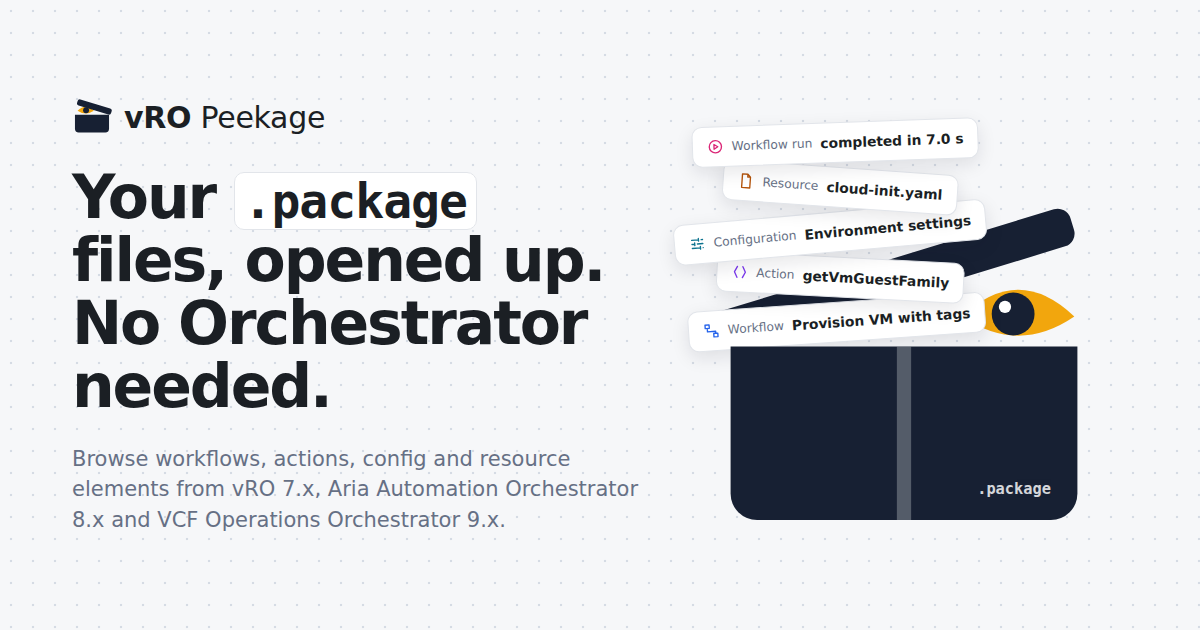
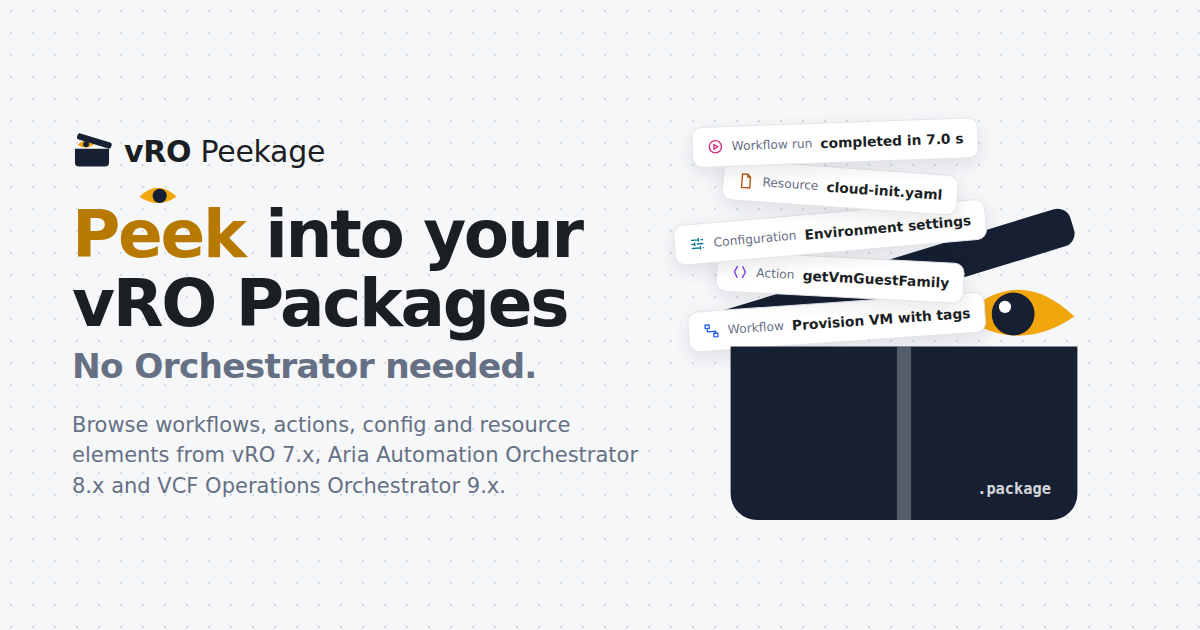
fixes

Changed region(s): [[0.0617, 0.1508, 0.5242, 0.8444]]

diff --git a/index.html b/index.html
@@ -3,9 +3,9 @@
   <head>
     <meta charset="UTF-8" />
     <meta name="viewport" content="width=device-width, initial-scale=1.0" />
-    <title>vRO Peekage — open vRO .package files without Orchestrator</title>
-    <meta name="description" content="Free vRO package viewer: browse workflows, actions, configuration and resource elements, scripts and workflow runs from vRealize Orchestrator 7.x, Aria Automation Orchestrator 8.x or VCF Operations Orchestrator 9.x .package files in your browser. Nothing is uploaded." />
-    <link rel="canonical" href="https://vro-peekage.vercel.app/" />
+    <title>vRO Peekage — Peek into your vRO packages, no Orchestrator needed</title>
+    <meta name="description" content="Peek into your vRO packages with this free vRO package viewer: browse workflows, actions, configuration and resource elements, scripts and workflow runs from vRealize Orchestrator 7.x, Aria Automation Orchestrator 8.x or VCF Operations Orchestrator 9.x .package files in your browser. Nothing is uploaded." />
+    <link rel="canonical" href="https://vro-package-viewer.vercel.app/" />
     <meta name="robots" content="index, follow" />
     <meta name="theme-color" content="#172033" media="(prefers-color-scheme: light)" />
     <meta name="theme-color" content="#0f1216" media="(prefers-color-scheme: dark)" />
@@ -16,19 +16,19 @@
 
     <meta property="og:type" content="website" />
     <meta property="og:site_name" content="vRO Peekage" />
-    <meta property="og:url" content="https://vro-peekage.vercel.app/" />
+    <meta property="og:url" content="https://vro-package-viewer.vercel.app/" />
     <meta property="og:title" content="vRO Peekage" />
-    <meta property="og:description" content="Your .package files, opened up. No Orchestrator needed. Browse vRO workflows, actions, config and resource elements in your browser." />
-    <meta property="og:image" content="https://vro-peekage.vercel.app/og-image.png" />
+    <meta property="og:description" content="Peek into your vRO Packages. No Orchestrator needed. Browse vRO workflows, actions, config and resource elements in your browser." />
+    <meta property="og:image" content="https://vro-package-viewer.vercel.app/og-image.png" />
     <meta property="og:image:width" content="1200" />
     <meta property="og:image:height" content="630" />
     <meta property="og:image:alt" content="vRO Peekage: an open box with workflows, actions and configuration elements peeking out" />
     <meta name="twitter:card" content="summary_large_image" />
     <meta name="twitter:title" content="vRO Peekage" />
-    <meta name="twitter:description" content="Your .package files, opened up. No Orchestrator needed." />
-    <meta name="twitter:image" content="https://vro-peekage.vercel.app/og-image.png" />
+    <meta name="twitter:description" content="Peek into your vRO Packages. No Orchestrator needed." />
+    <meta name="twitter:image" content="https://vro-package-viewer.vercel.app/og-image.png" />
 
-    <script type="application/ld+json">{"@context": "https://schema.org", "@type": "SoftwareApplication", "name": "vRO Peekage", "alternateName": "vRO Package Viewer", "url": "https://vro-peekage.vercel.app/", "description": "Free vRO package viewer: browse workflows, actions, configuration and resource elements, scripts and workflow runs from vRealize Orchestrator 7.x, Aria Automation Orchestrator 8.x or VCF Operations Orchestrator 9.x .package files in your browser. Nothing is uploaded.", "applicationCategory": "DeveloperApplication", "operatingSystem": "Any (web browser)", "offers": {"@type": "Offer", "price": "0", "priceCurrency": "USD"}, "image": "https://vro-peekage.vercel.app/og-image.png", "author": {"@type": "Person", "name": "imtrinity94", "url": "https://github.com/imtrinity94"}, "codeRepository": "https://github.com/imtrinity94/vRO-Package-Viewer", "isAccessibleForFree": true}</script>
+    <script type="application/ld+json">{"@context": "https://schema.org", "@type": "SoftwareApplication", "name": "vRO Peekage", "alternateName": "vRO Package Viewer", "url": "https://vro-package-viewer.vercel.app/", "description": "Peek into your vRO packages with this free vRO package viewer: browse workflows, actions, configuration and resource elements, scripts and workflow runs from vRealize Orchestrator 7.x, Aria Automation Orchestrator 8.x or VCF Operations Orchestrator 9.x .package files in your browser. Nothing is uploaded.", "applicationCategory": "DeveloperApplication", "operatingSystem": "Any (web browser)", "offers": {"@type": "Offer", "price": "0", "priceCurrency": "USD"}, "image": "https://vro-package-viewer.vercel.app/og-image.png", "author": {"@type": "Person", "name": "imtrinity94", "url": "https://github.com/imtrinity94"}, "codeRepository": "https://github.com/imtrinity94/vRO-Package-Viewer", "isAccessibleForFree": true}</script>
   </head>
   <body>
     <div id="root"></div>

diff --git a/src/styles.css b/src/styles.css
@@ -33,6 +33,7 @@
   --console-fg: #d6e2f0;
   --brand-ink: #172033;
   --brand-amber: #F2A60D;
+  --brand-amber-text: #B87900;
   --brand-fg: #172033;
   --dot: #d5dbe4;
   --shadow: 0 1px 2px rgb(16 24 40 / 0.05);
@@ -71,6 +72,7 @@
     --k-generic: #8b95a5;
     --k-run: #f472b6;
     --brand-fg: #E8EDF5;
+    --brand-amber-text: #F5B53A;
     --dot: #222b39;
     --bad: #f87171;
     --bad-soft: #3b1414;
@@ -109,6 +111,7 @@
   --k-generic: #8b95a5;
   --k-run: #f472b6;
   --brand-fg: #E8EDF5;
+  --brand-amber-text: #F5B53A;
   --dot: #222b39;
   --bad: #f87171;
   --bad-soft: #3b1414;
@@ -502,3 +505,8 @@ table.steps tbody tr:hover td, table.steps tbody tr.on td { background: var(--pa
 }
 a.btn-ghost { text-decoration: none; }
 .mini-schema { max-width: 560px; margin: 0 auto; }
+
+/* tagline: "Peek" leads */
+.lp-peek { position: relative; display: inline-block; color: var(--brand-amber-text); }
+.lp-peek-eye { position: absolute; left: 50%; top: -0.32em; width: 0.62em; height: 0.46em; transform: translateX(-50%); }
+.lp-title-sub { display: block; margin-top: 0.28em; font-size: 0.52em; font-weight: 700; letter-spacing: -0.02em; color: var(--muted); }

diff --git a/src/components/Landing.tsx b/src/components/Landing.tsx
@@ -110,7 +110,15 @@ export function Landing({ onPick, busy, error, dragging }: { onPick: () => void;
       <section className="lp-hero">
         <div className="lp-copy">
           <h1 className="lp-title">
-            Your <code>.package</code> files, opened up. No Orchestrator needed.
+            <span className="lp-peek">
+              <svg className="lp-peek-eye" viewBox="12 17 24 18" aria-hidden>
+                <path d="M13 27.5 Q24 17 35 27.5 Q24 35 13 27.5z" fill="var(--brand-amber)" />
+                <circle cx="25" cy="27" r="4.2" fill="var(--brand-ink)" />
+              </svg>
+              Peek
+            </span>{" "}
+            into your vRO Packages
+            <span className="lp-title-sub">No Orchestrator needed.</span>
           </h1>
           <p className="lp-lede">
             Drop a package exported from vRealize Orchestrator 7.x, Aria Automation Orchestrator 8.x or VCF Operations Orchestrator 9.x. Its workflows, actions, configuration and resource elements, scripts and recorded runs open right here in your browser.

diff --git a/README.md b/README.md
@@ -2,9 +2,9 @@
 
 <img src="public/brand/peekbox-mark.svg" width="72" alt="vRO Peekage logo">
 
-**Your .package files, opened up — no Orchestrator needed.**
+**Peek into your vRO Packages — no Orchestrator needed.**
 
-_Formerly vRO Package Viewer._ · Live at **https://vro-peekage.vercel.app**
+_Formerly vRO Package Viewer._ · Live at **https://vro-package-viewer.vercel.app**
 
 Browse the contents of a `.package` file from **vRealize Orchestrator 7.x**, **Aria Automation Orchestrator 8.x** or **VCF Operations Orchestrator 9.x** in the browser — workflows, actions, configuration elements, resource elements and polyglot environments — without importing it into an Orchestrator.
 
@@ -55,7 +55,7 @@ npm run test:parse -- path/to/file.package   # parse a package in Node and print
 
 ## Deploy to Vercel
 
-The site's canonical address is `https://vro-peekage.vercel.app` (set in `index.html`, `public/sitemap.xml` and `public/robots.txt`). If you deploy elsewhere, update those three. Requests to the old `vro-package-viewer.vercel.app` host are permanently redirected to it by `vercel.json`, as long as that domain is still attached to the project.
+The site's canonical address is `https://vro-package-viewer.vercel.app` (set in `index.html`, `public/sitemap.xml` and `public/robots.txt`). If the site moves to another domain, update those three.
 
 `npm run build` also pre-renders the landing page into `dist/index.html`, so search engines and link previews see real content without running JavaScript.
 
